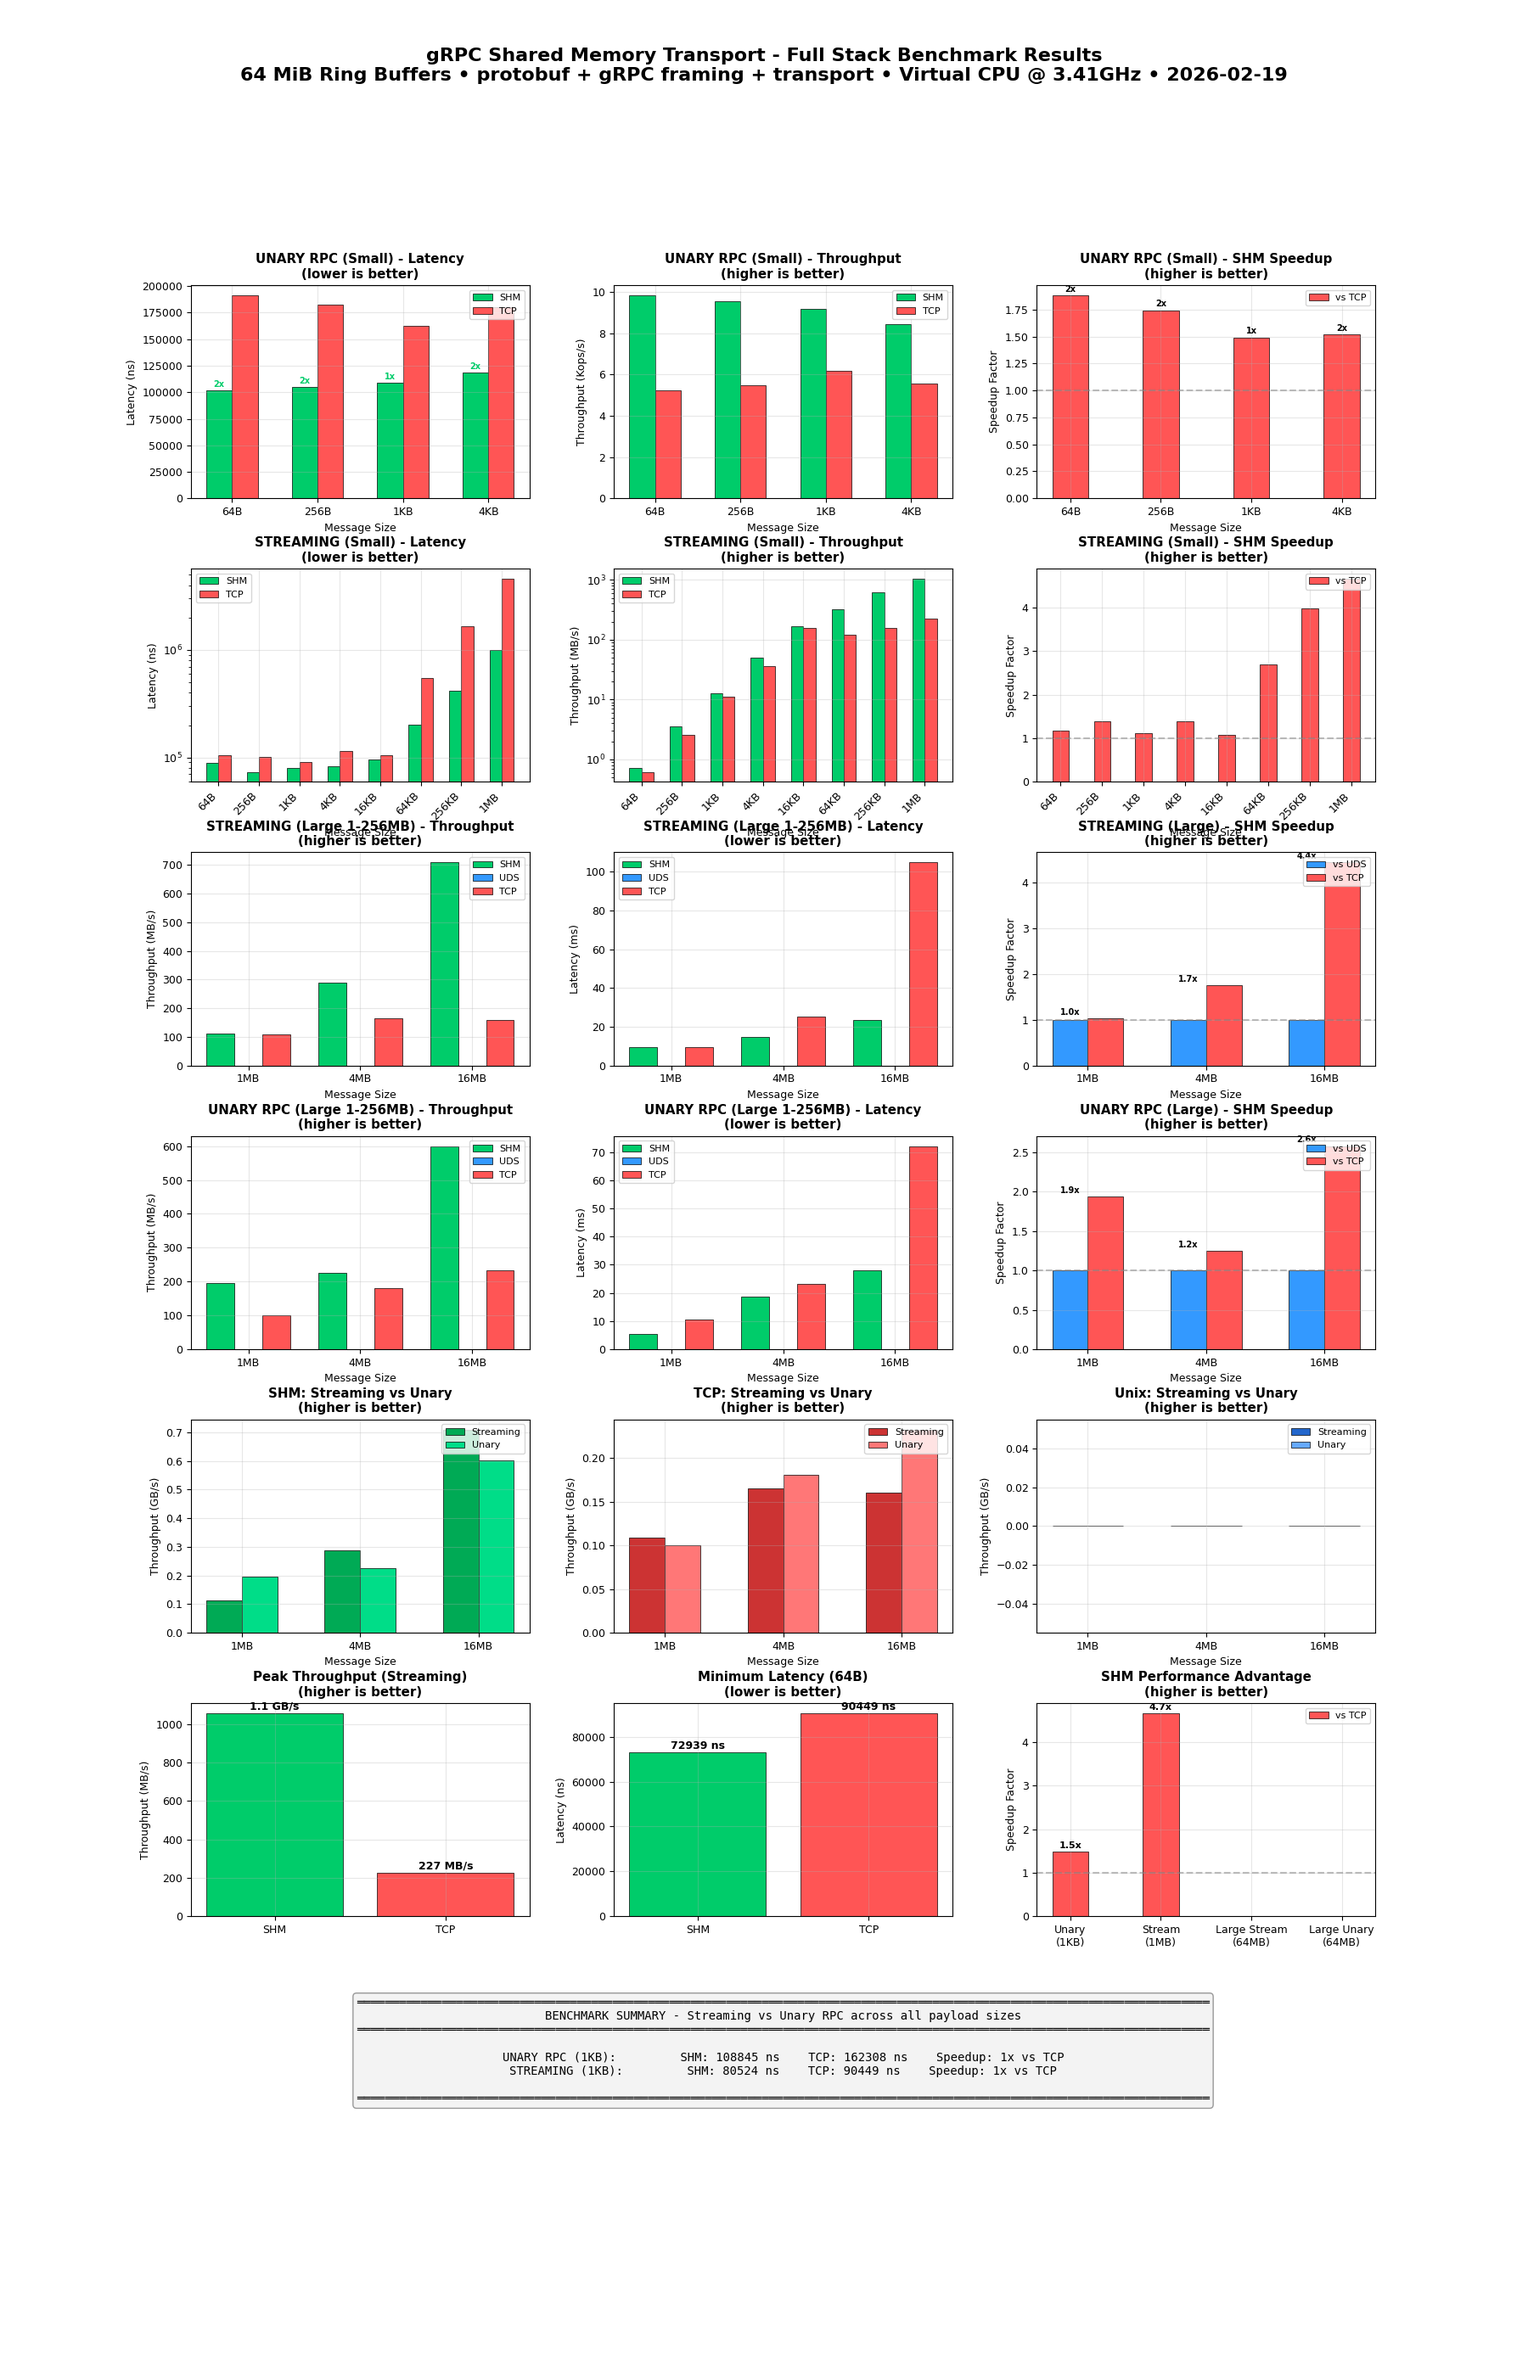
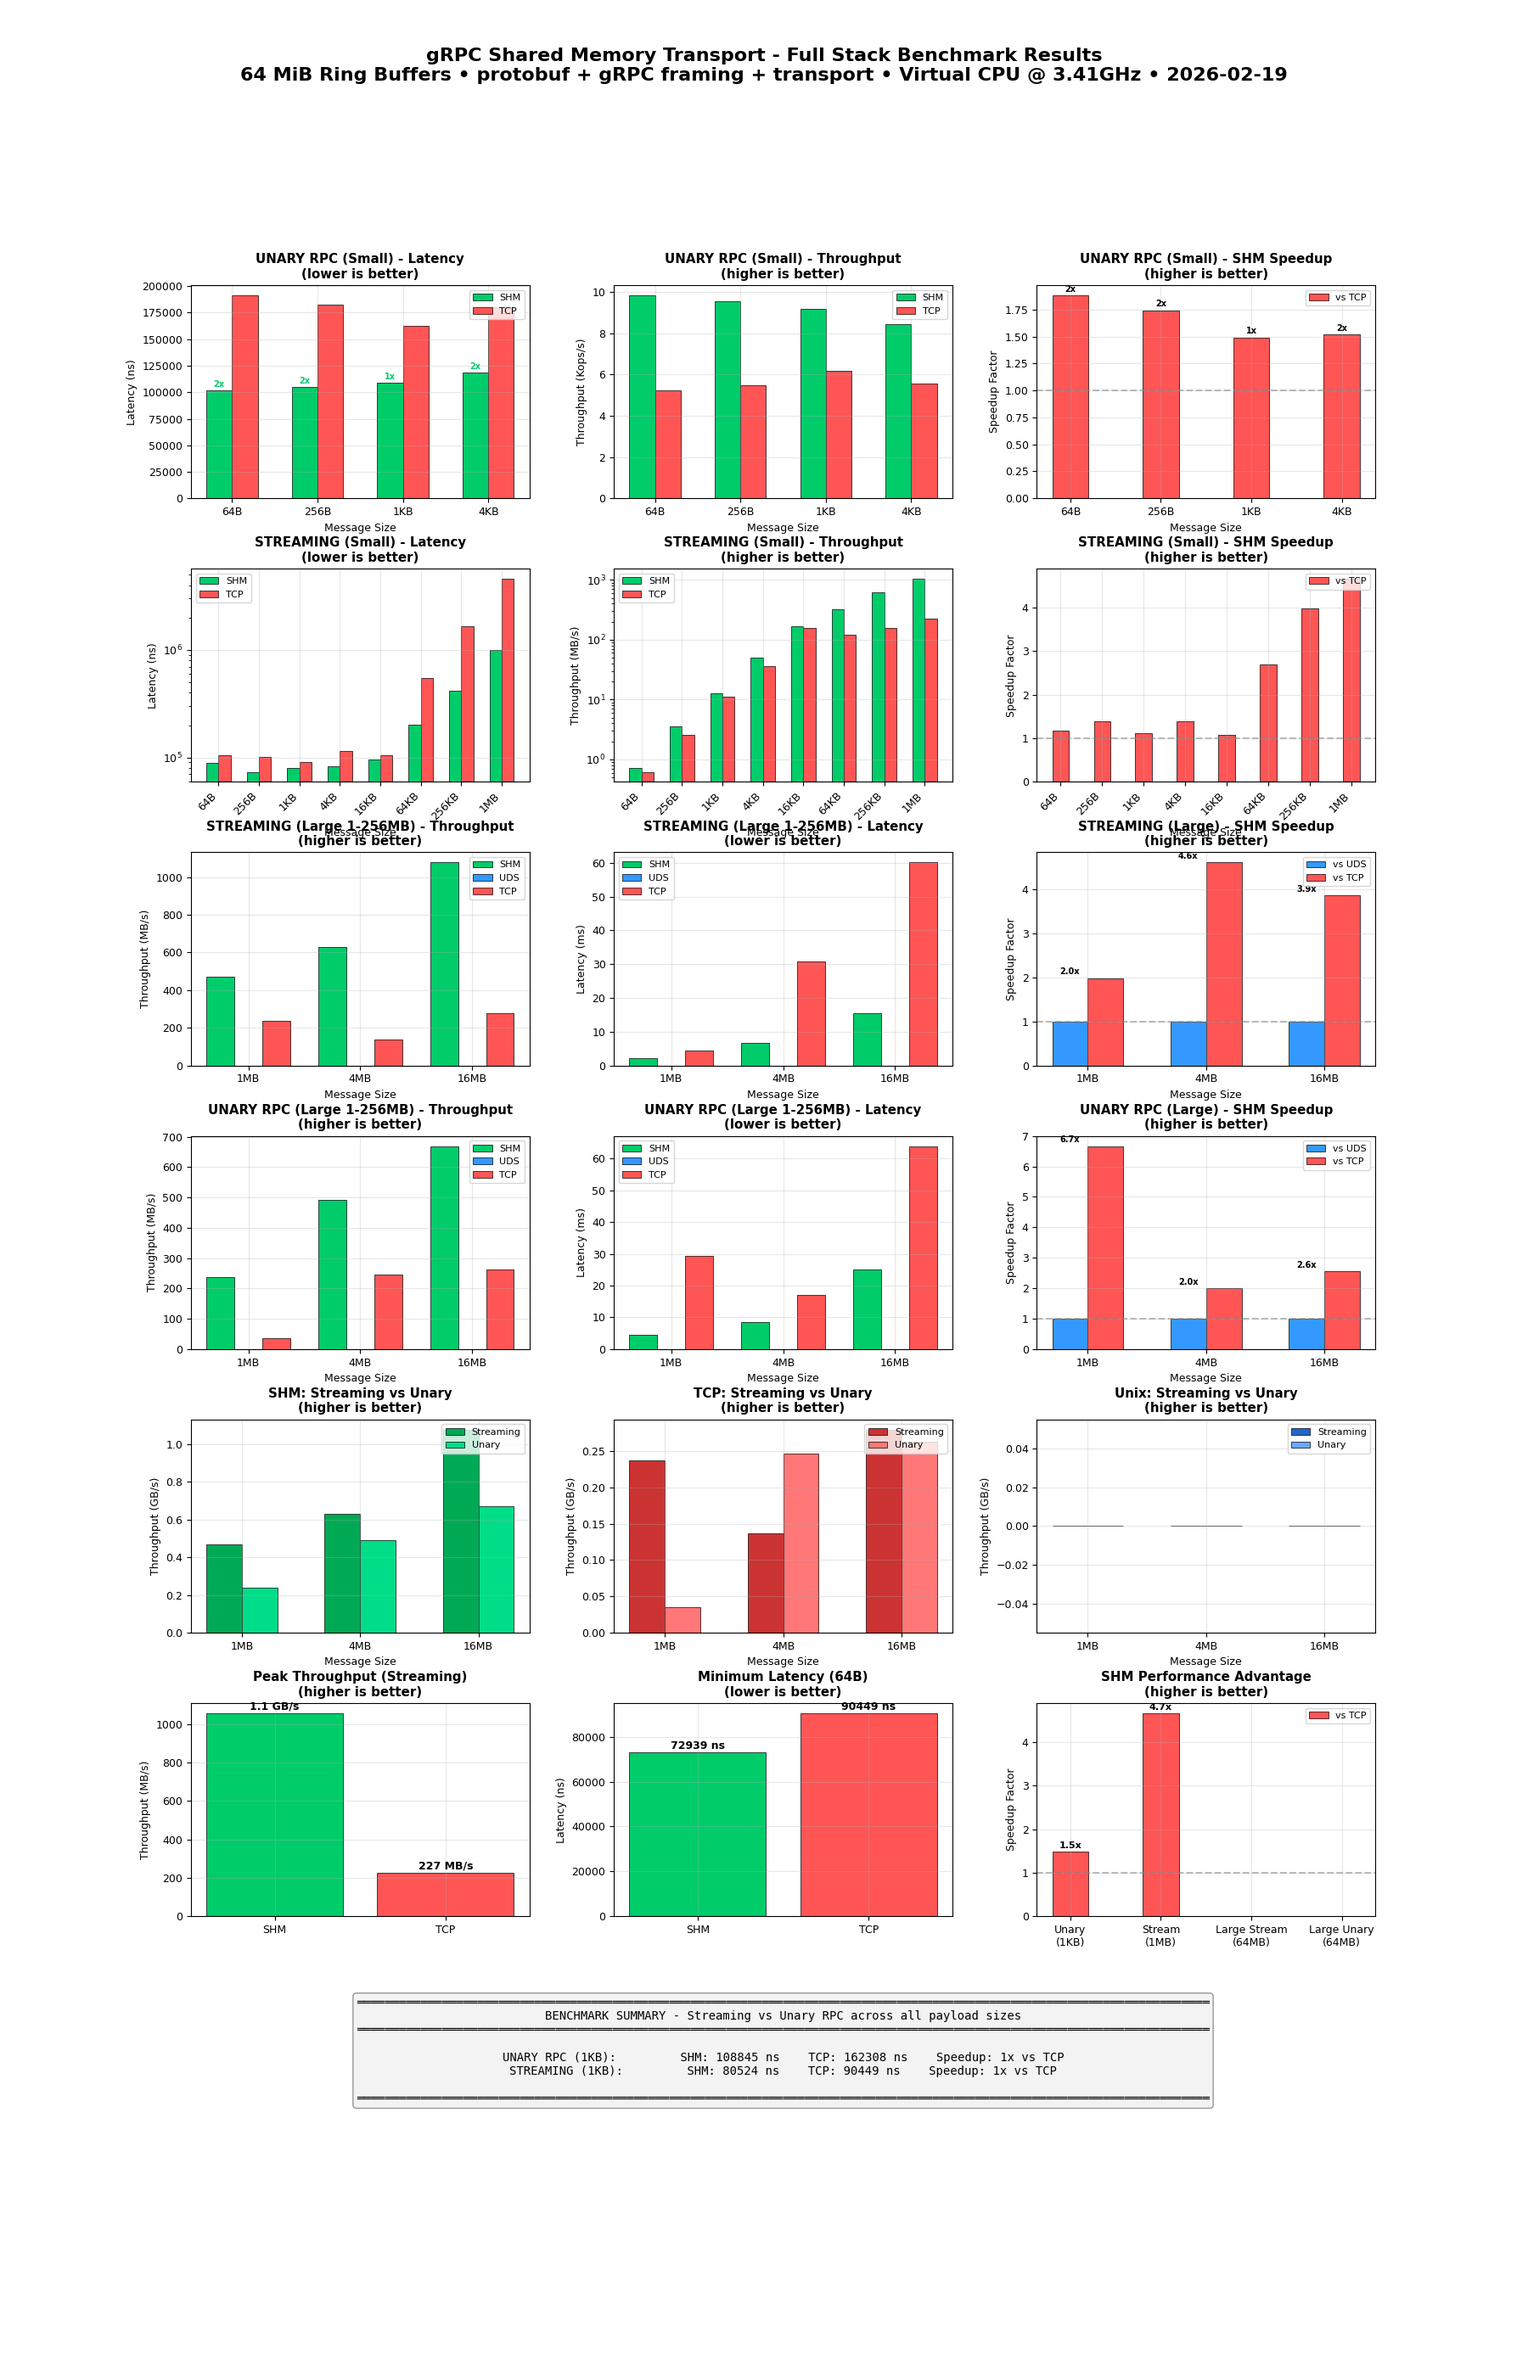
bench: add ring warmup to Large benchmarks, refresh stale data
Added warmUpStream() that sends 200+ streaming ping-pongs through the ring
before the timed sub-tests. This faults in all ring buffer pages and warms
CPU caches, eliminating the cold-start penalty that made Large benchmarks
appear much slower than Regular benchmarks at the same payload size.

Updated benchmark_results.json with fresh post-optimization Large benchmark
data. Previous values were stale (pre-coalescing) and showed SHM Large Stream
1MB nearly equal to TCP (112 vs 109 MB/s). Fresh data shows SHM 2-4x faster.

Regenerated consolidated and large payload plots.

diff --git a/benchmark/shmemtcp/bench_test.go b/benchmark/shmemtcp/bench_test.go
@@ -226,6 +226,47 @@ func warmUpGRPC(b *testing.B, client testgrpc.BenchmarkServiceClient) {
 	}
 }
 
+// warmUpStream sends several large streaming ping-pongs to fault in ring buffer
+// pages and warm CPU caches before the timed benchmark sub-tests. Without this,
+// the first sub-test (especially at large payload sizes) pays page-fault and TLB
+// miss costs that distort results vs later sub-tests on the same connection.
+func warmUpStream(b *testing.B, client testgrpc.BenchmarkServiceClient, size int) {
+	ctx, cancel := context.WithTimeout(context.Background(), 30*time.Second)
+	defer cancel()
+
+	stream, err := client.StreamingCall(ctx)
+	if err != nil {
+		b.Fatalf("warm-up StreamingCall: %v", err)
+	}
+
+	req := &testpb.SimpleRequest{
+		ResponseType: testpb.PayloadType_COMPRESSABLE,
+		ResponseSize: int32(size),
+		Payload:      benchmark.NewPayload(testpb.PayloadType_COMPRESSABLE, size),
+	}
+
+	// Send enough data to touch all ring buffer pages (~128 MiB total for a
+	// 64 MiB ring with both directions). 200 round-trips of the target size
+	// ensures full coverage even for small payloads.
+	n := 200
+	if size > 0 {
+		// At least enough to fill the ring twice in each direction.
+		minIters := (2 * benchRing) / size
+		if minIters > n {
+			n = minIters
+		}
+	}
+	for i := 0; i < n; i++ {
+		if err := stream.Send(req); err != nil {
+			b.Fatalf("warm-up Send: %v", err)
+		}
+		if _, err := stream.Recv(); err != nil {
+			b.Fatalf("warm-up Recv: %v", err)
+		}
+	}
+	_ = stream.CloseSend()
+}
+
 // benchStream opens a StreamingCall and performs ping-pong Send/Recv for b.N iterations.
 // Each operation sends a request of `size` bytes and receives a response of `size` bytes.
 func benchStream(b *testing.B, client testgrpc.BenchmarkServiceClient, size int) {
@@ -334,6 +375,7 @@ func BenchmarkGRPCShmUnary(b *testing.B) {
 func BenchmarkGRPCShmLargeStream(b *testing.B) {
 	env := newShmEnv(b)
 	defer env.close()
+	warmUpStream(b, env.client, 1*1024*1024)
 	for _, ls := range benchLargeSizes {
 		ls := ls
 		b.Run(fmt.Sprintf("size=%dMB", ls.bytes/(1024*1024)), func(b *testing.B) {
@@ -347,6 +389,7 @@ func BenchmarkGRPCShmLargeStream(b *testing.B) {
 func BenchmarkGRPCShmLargeUnary(b *testing.B) {
 	env := newShmEnv(b)
 	defer env.close()
+	warmUpStream(b, env.client, 1*1024*1024)
 	for _, ls := range benchLargeSizes {
 		ls := ls
 		b.Run(fmt.Sprintf("size=%dMB", ls.bytes/(1024*1024)), func(b *testing.B) {
@@ -390,6 +433,7 @@ func BenchmarkGRPCTCPUnary(b *testing.B) {
 func BenchmarkGRPCTCPLargeStream(b *testing.B) {
 	env := newTCPEnv(b)
 	defer env.close()
+	warmUpStream(b, env.client, 1*1024*1024)
 	for _, ls := range benchLargeSizes {
 		ls := ls
 		b.Run(fmt.Sprintf("size=%dMB", ls.bytes/(1024*1024)), func(b *testing.B) {
@@ -403,6 +447,7 @@ func BenchmarkGRPCTCPLargeStream(b *testing.B) {
 func BenchmarkGRPCTCPLargeUnary(b *testing.B) {
 	env := newTCPEnv(b)
 	defer env.close()
+	warmUpStream(b, env.client, 1*1024*1024)
 	for _, ls := range benchLargeSizes {
 		ls := ls
 		b.Run(fmt.Sprintf("size=%dMB", ls.bytes/(1024*1024)), func(b *testing.B) {
